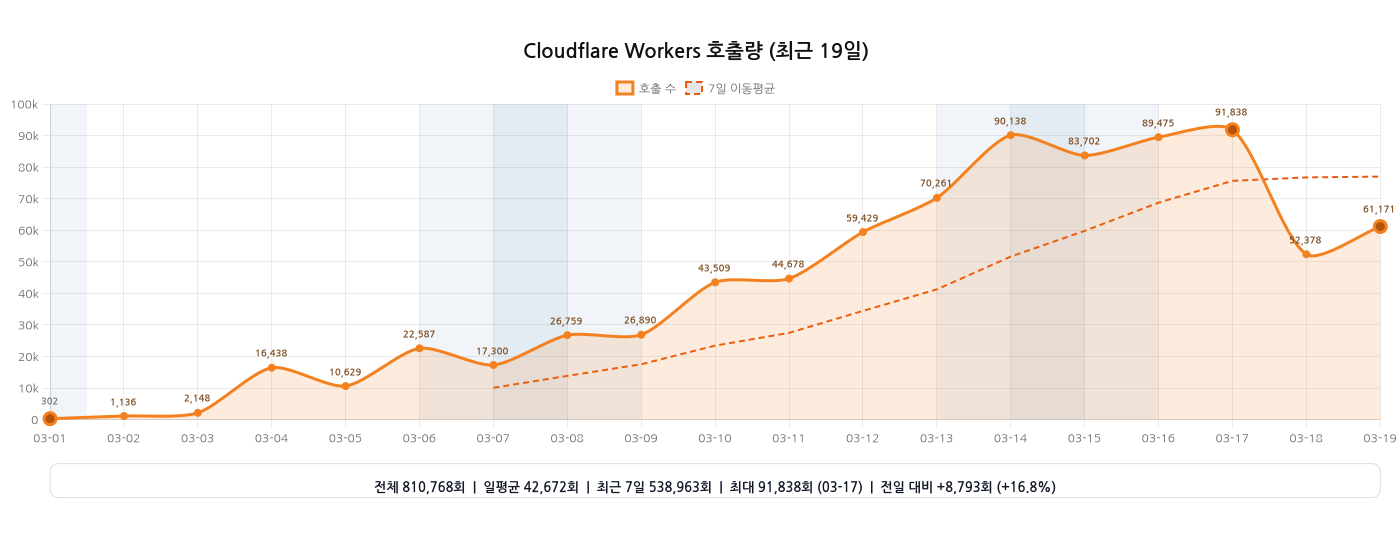
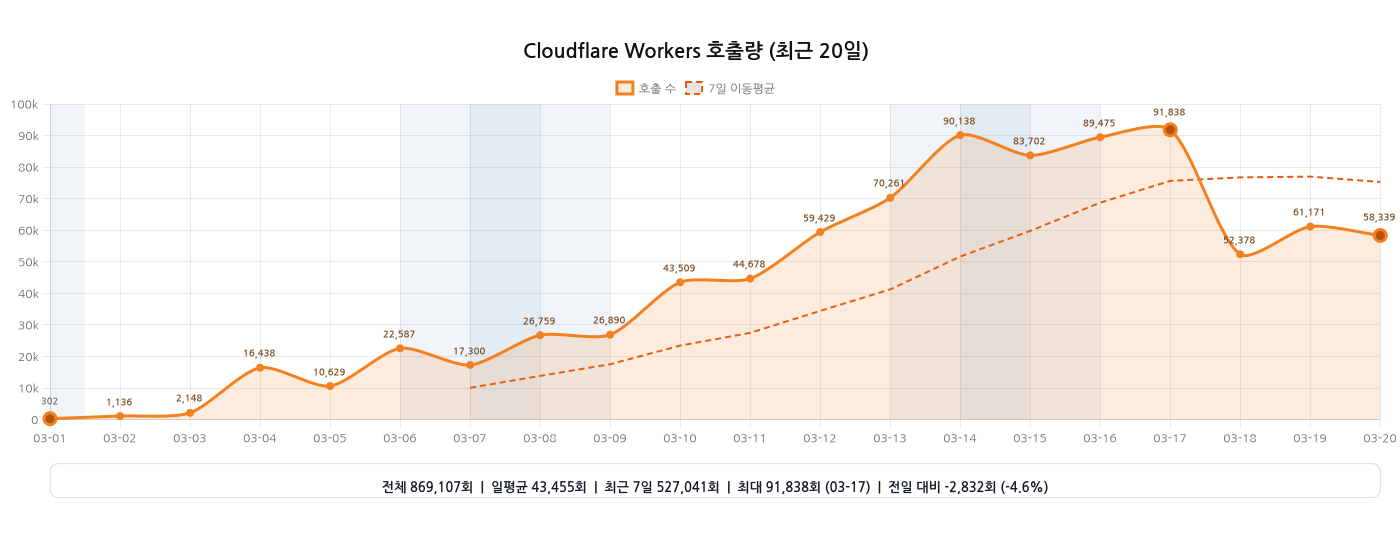
chore: 워커 호출량 그래프 자동 갱신

diff --git a/README.md b/README.md
@@ -18,11 +18,11 @@
 [![Coverage](https://github.com/hmmhmmhm/daiso-mcp/actions/workflows/coverage.yml/badge.svg?branch=main)](https://github.com/hmmhmmhm/daiso-mcp/actions/workflows/coverage.yml)
 
 <!-- WORKERS_INVOCATIONS_CHART:START -->
-<h3>Cloudflare Workers 호출량 (2026-03-01 ~ 2026-03-19, 19일)</h3>
+<h3>Cloudflare Workers 호출량 (2026-03-01 ~ 2026-03-20, 20일)</h3>
 
-<img src="./assets/analytics/workers-invocations.png?v=2026-03-19T15:41:29.160Z" alt="Cloudflare Workers 호출량 그래프 (2026-03-01 ~ 2026-03-19)" width="100%">
+<img src="./assets/analytics/workers-invocations.png?v=2026-03-20T15:34:19.756Z" alt="Cloudflare Workers 호출량 그래프 (2026-03-01 ~ 2026-03-20)" width="100%">
 
-<sub>기준 워커: <code>daiso-mcp</code> · 마지막 갱신: 2026-03-20 00:41 KST</sub>
+<sub>기준 워커: <code>daiso-mcp</code> · 마지막 갱신: 2026-03-21 00:34 KST</sub>
 
 <!-- WORKERS_INVOCATIONS_CHART:END -->
 
